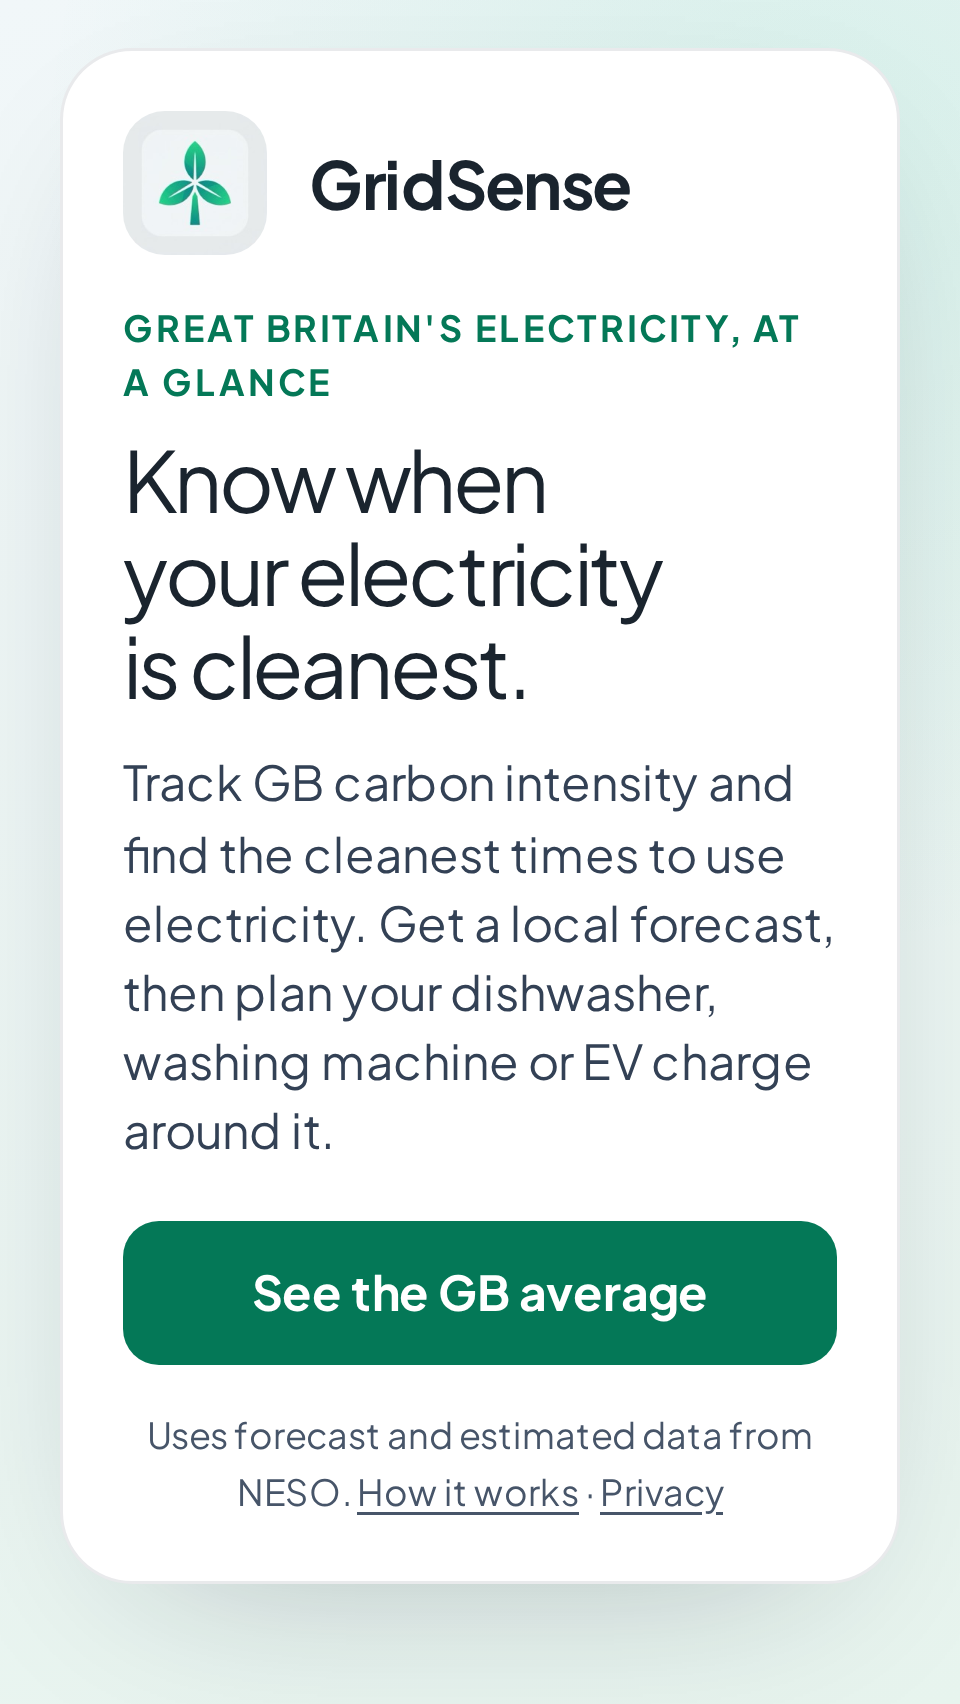
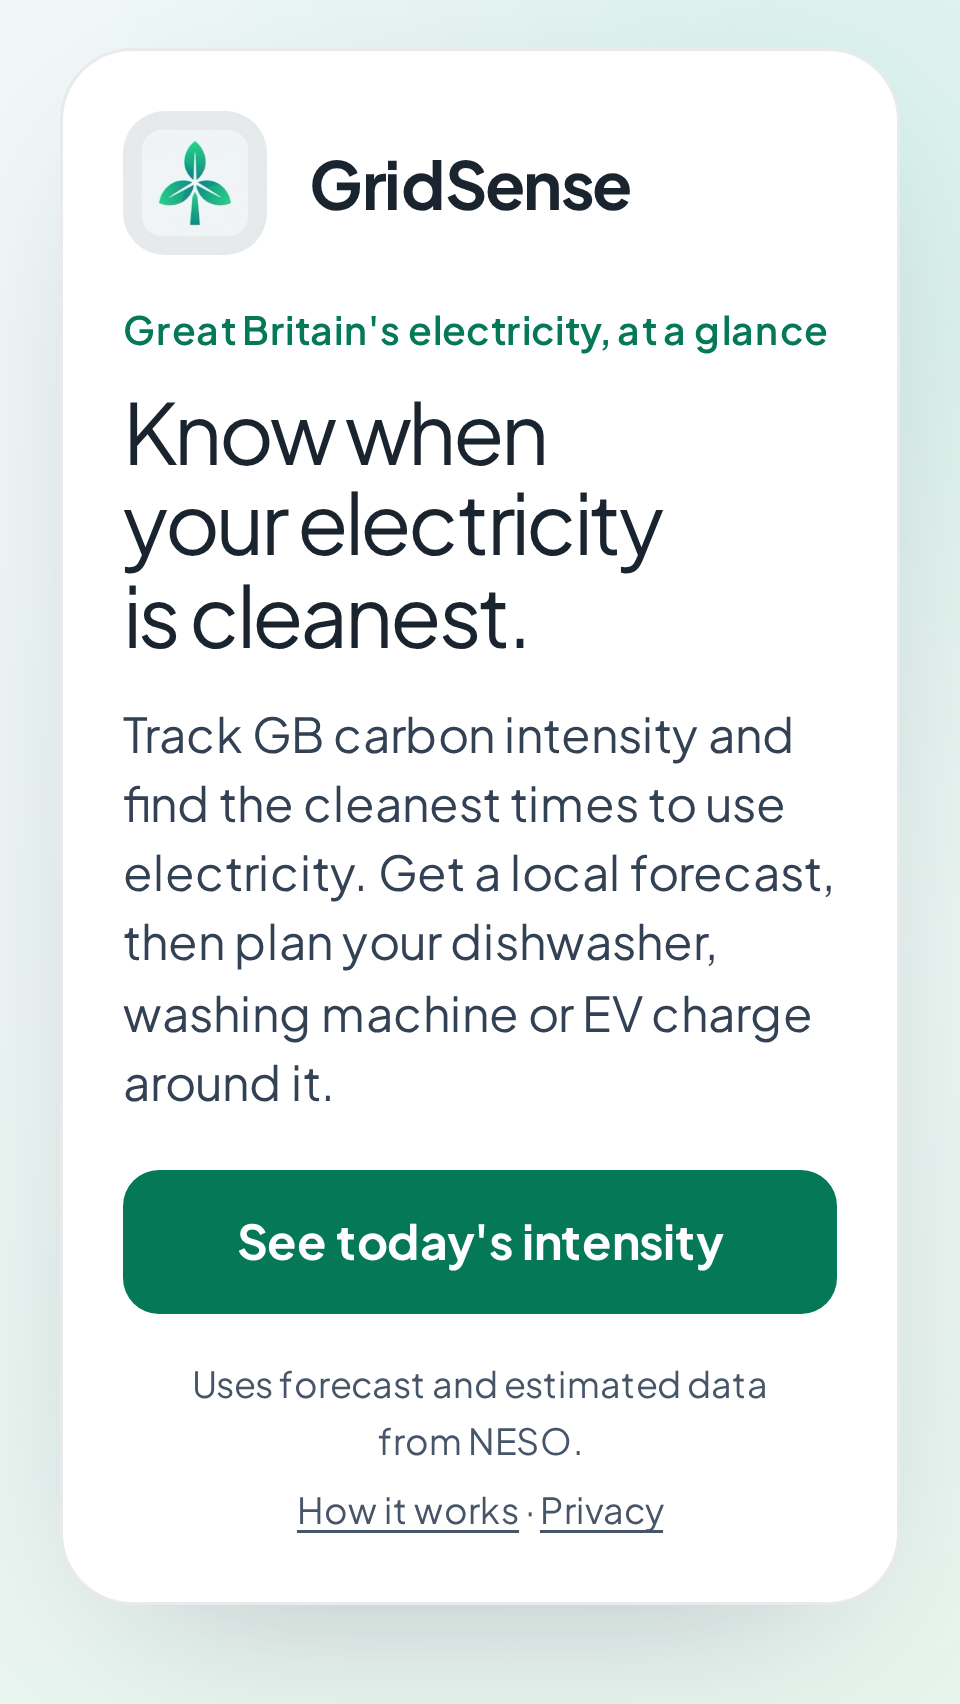
fix: Design holds on static first-screen CTA, wrap and share art
Replace the GB-average CTA with See today's intensity, keep How it works
on one line with a sentence-case eyebrow, and redraw og-image GB in the
same plain letters as CARBON INTENSITY. Add dark 390 shot.

Changed region(s): [[0.0625, 0.1866, 0.9375, 0.9642]]

diff --git a/index.html b/index.html
@@ -149,10 +149,10 @@
       .gs-first-screen-eyebrow {
         margin: 0 0 10px;
         color: #047857;
-        font-size: 12px;
-        font-weight: 700;
-        letter-spacing: 0.08em;
-        text-transform: uppercase;
+        font-size: 13px;
+        font-weight: 600;
+        letter-spacing: 0.01em;
+        text-transform: none;
       }
       .gs-first-screen h1 {
         max-width: 430px;
@@ -194,10 +194,20 @@
         line-height: 1.6;
         text-align: center;
       }
-      .gs-first-screen-source a {
+      .gs-first-screen-links {
+        margin: 6px 0 0;
+        color: #475569;
+        font-size: 12px;
+        line-height: 1.6;
+        text-align: center;
+        white-space: nowrap;
+      }
+      .gs-first-screen-source a,
+      .gs-first-screen-links a {
         color: inherit;
         text-decoration: underline;
         text-underline-offset: 2px;
+        white-space: nowrap;
       }
       @media (max-height: 650px) {
         .gs-first-screen {
@@ -234,6 +244,9 @@
         .gs-first-screen-source {
           margin-top: 14px;
         }
+        .gs-first-screen-links {
+          margin-top: 4px;
+        }
       }
       @media (prefers-color-scheme: dark) {
         body,
@@ -249,7 +262,8 @@
           color: #6ee7b7;
         }
         .gs-first-screen-description,
-        .gs-first-screen-source {
+        .gs-first-screen-source,
+        .gs-first-screen-links {
           color: #cbd5e1;
         }
       }
@@ -277,10 +291,11 @@
             width="1200"
             height="630"
           />
-          <a class="gs-first-screen-cta" href="/">See the GB average</a>
-          <p class="gs-first-screen-source">
-            Uses forecast and estimated data from NESO.
-            <a href="/help">How it works</a> ·
+          <a class="gs-first-screen-cta" href="/">See today's intensity</a>
+          <p class="gs-first-screen-source">Uses forecast and estimated data from NESO.</p>
+          <p class="gs-first-screen-links">
+            <a href="/help">How it works</a>
+            ·
             <a href="/privacy">Privacy</a>
           </p>
         </div>

diff --git a/src/test/staticFirstScreen.test.ts b/src/test/staticFirstScreen.test.ts
@@ -12,6 +12,9 @@ describe('static first screen', () => {
       'Track GB carbon intensity and find the cleanest times to use electricity.',
     );
     expect(root).toContain('href="/"');
+    expect(root).toContain("See today's intensity");
+    expect(root).toContain('How it works');
+    expect(root).toContain("Great Britain's electricity, at a glance");
     expect(root).toContain('href="/privacy"');
     expect(root).toContain('src="/og-image.png"');
   });

diff --git a/scripts/generate-og-image.py b/scripts/generate-og-image.py
@@ -1,0 +1,80 @@
+#!/usr/bin/env python3
+"""Regenerate public/og-image.png.
+
+Keeps the existing share artwork (icon, GridSense title, tagline, intensity
+pills) and redraws the eyebrow as plain Inter letters so "GB" matches
+"CARBON INTENSITY" — no monogram.
+"""
+
+from __future__ import annotations
+
+from pathlib import Path
+
+from PIL import Image, ImageDraw, ImageFilter, ImageFont
+
+ROOT = Path(__file__).resolve().parents[1]
+SRC = ROOT / 'public' / 'og-image.png'
+OUT = ROOT / 'public' / 'og-image.png'
+FONT = Path(
+  '/usr/share/fonts/truetype/sand-box/google/Inter/Inter-VariableFont_opsz,wght.ttf'
+)
+FALLBACK = Path('/usr/share/fonts/truetype/dejavu/DejaVuSans-Bold.ttf')
+GREEN = (52, 211, 153)
+TEXT = 'GB CARBON INTENSITY'
+
+
+def load_font(size: int) -> ImageFont.FreeTypeFont:
+  path = FONT if FONT.exists() else FALLBACK
+  font = ImageFont.truetype(str(path), size)
+  if hasattr(font, 'set_variation_by_name'):
+    try:
+      font.set_variation_by_name('Bold')
+    except Exception:
+      pass
+  return font
+
+
+def clear_eyebrow(src: Image.Image) -> Image.Image:
+  """Paint out the old monogram + CARBON INTENSITY band."""
+  w, h = src.size
+  src_px = src.load()
+  cover = src.copy()
+  cpx = cover.load()
+  for y in range(125, 195):
+    t = (y - 125) / 70.0
+    for x in range(400, 940):
+      a = src_px[x, 118]
+      b = src_px[x, 200]
+      cpx[x, y] = tuple(int(a[i] * (1 - t) + b[i] * t) for i in range(3))
+
+  mask = Image.new('L', (w, h), 0)
+  ImageDraw.Draw(mask).rounded_rectangle([420, 132, 910, 188], radius=6, fill=255)
+  mask = mask.filter(ImageFilter.GaussianBlur(1.5))
+  return Image.composite(cover, src, mask)
+
+
+def draw_eyebrow(img: Image.Image) -> Image.Image:
+  draw = ImageDraw.Draw(img)
+  font = load_font(26)
+  spacing = 3.8
+  x = 464
+  y = 148
+  for i, ch in enumerate(TEXT):
+    draw.text((x, y), ch, font=font, fill=GREEN)
+    bb = draw.textbbox((0, 0), ch, font=font)
+    x += bb[2] - bb[0] + (6 if ch == ' ' else spacing)
+  return img
+
+
+def main() -> None:
+  # Always start from the committed artwork so re-runs stay idempotent after
+  # the first plain-GB rewrite. If the file already has plain GB, clearing the
+  # band and redrawing yields the same result.
+  src = Image.open(SRC).convert('RGB')
+  out = draw_eyebrow(clear_eyebrow(src))
+  out.save(OUT, optimize=True)
+  print(f'wrote {OUT.relative_to(ROOT)} ({out.size[0]}x{out.size[1]})')
+
+
+if __name__ == '__main__':
+  main()
